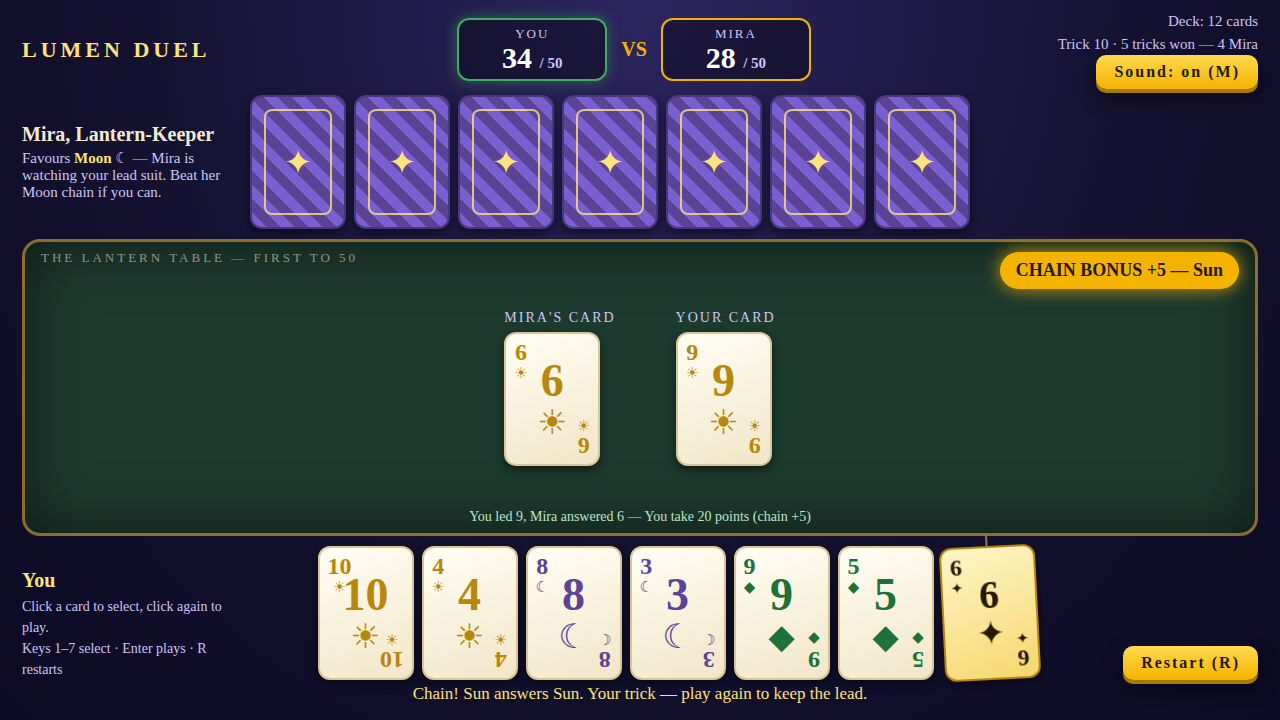
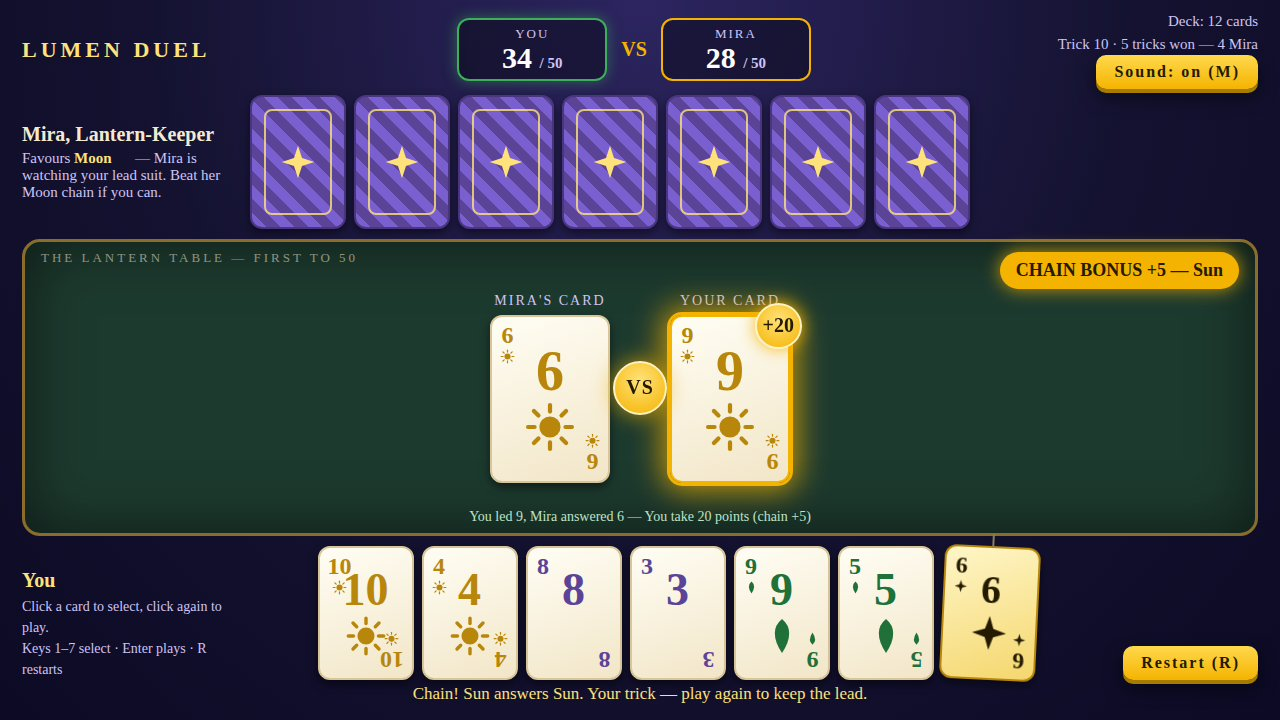
Revision: SVG suit emblems, win flourish, bigger table cards with winner glow + score badge and VS medallion

diff --git a/game/src/render.js b/game/src/render.js
@@ -9,10 +9,11 @@
     return node;
   }
 
-  function suitGlyph(suitId) {
-    if (suitId === "lantern") return "\u2726";
-    var suit = root.LumenDeck.suitById(suitId);
-    return suit ? suit.glyph : "?";
+  // One inline SVG suit icon (crisp vector shape, never a text glyph).
+  function suitIcon(suitId) {
+    var id = suitId === "lantern" ? "lantern" : suitId;
+    return '<svg class="suit-icon" viewBox="0 0 32 32" aria-hidden="true">' +
+      '<use href="#icon-' + id + '"></use></svg>';
   }
 
   function suitName(suitId) {
@@ -27,7 +28,8 @@
     var node = el("div", "card");
     if (opts.faceDown) {
       node.classList.add("back");
-      var mark = el("div", "back-mark", "\u2726");
+      var mark = el("div", "back-mark");
+      mark.innerHTML = suitIcon("lantern");
       node.appendChild(mark);
       return node;
     }
@@ -37,13 +39,19 @@
     if (opts.played) node.classList.add("played");
     var top = el("div", "corner");
     top.appendChild(el("span", "v", String(card.value)));
-    top.appendChild(el("span", "s", suitGlyph(card.suit)));
+    var topSuit = el("span", "s");
+    topSuit.innerHTML = suitIcon(card.suit);
+    top.appendChild(topSuit);
     var bottom = el("div", "corner br");
     bottom.appendChild(el("span", "v", String(card.value)));
-    bottom.appendChild(el("span", "s", suitGlyph(card.suit)));
+    var bottomSuit = el("span", "s");
+    bottomSuit.innerHTML = suitIcon(card.suit);
+    bottom.appendChild(bottomSuit);
     var center = el("div", "center");
     center.appendChild(el("div", "big", String(card.value)));
-    center.appendChild(el("div", "glyph", suitGlyph(card.suit)));
+    var centerIcon = el("div", "glyph");
+    centerIcon.innerHTML = suitIcon(card.suit);
+    center.appendChild(centerIcon);
     node.appendChild(top);
     node.appendChild(center);
     node.appendChild(bottom);
@@ -88,6 +96,8 @@
     table.querySelectorAll(".chain-banner").forEach(function (n) { n.remove(); });
     var playerSlot = document.getElementById("slot-player");
     var oppSlot = document.getElementById("slot-opp");
+    var playerCardEl = null;
+    var oppCardEl = null;
     playerSlot.innerHTML = "";
     oppSlot.innerHTML = "";
     var labelP = el("div", "slot-label", "YOUR CARD");
@@ -95,14 +105,24 @@
     playerSlot.appendChild(labelP);
     oppSlot.appendChild(labelO);
     if (state.table.playerCard) {
-      playerSlot.appendChild(cardElement(state.table.playerCard, { played: true }));
+      playerCardEl = cardElement(state.table.playerCard, { played: true });
+      playerSlot.appendChild(playerCardEl);
     } else {
       playerSlot.appendChild(el("div", "slot-empty", "waiting…"));
     }
     if (state.table.opponentCard) {
-      oppSlot.appendChild(cardElement(state.table.opponentCard, { played: true }));
+      oppCardEl = cardElement(state.table.opponentCard, { played: true });
+      oppSlot.appendChild(oppCardEl);
     } else {
       oppSlot.appendChild(el("div", "slot-empty", "waiting…"));
+    }
+    // Gold glow ring on the card that took the trick, plus a compact
+    // score badge (+points) on that card, mirroring the trick result.
+    if (playerCardEl && oppCardEl && state.lastResult) {
+      var winCardEl = state.lastResult.winnerIsPlayer ? playerCardEl : oppCardEl;
+      winCardEl.classList.add("winner");
+      var badge = el("div", "score-badge", "+" + state.lastResult.points);
+      winCardEl.appendChild(badge);
     }
     if (state.lastResult && state.lastResult.chained && state.showChain) {
       var banner = el("div", "chain-banner",
@@ -114,7 +134,7 @@
     var fav = root.LumenAi.favouredSuit(state.opponentHand);
     var favName = suitName(fav);
     document.getElementById("opp-fav").innerHTML =
-      "Favours <b>" + favName + "</b> " + suitGlyph(fav) +
+      "Favours <b>" + favName + "</b> " + suitIcon(fav) +
       " — " + root.LumenAi.telegraph(state.opponentHand, state.playerLeads === false);
     renderScoreboard(state);
     renderHand(document.getElementById("opp-hand"), state.opponentHand, { faceDown: true });
@@ -136,6 +156,9 @@
     var score = document.getElementById("end-score");
     var detail = document.getElementById("end-detail");
     var fireworks = document.getElementById("fireworks");
+    var endScreen = document.getElementById("screen-end");
+    endScreen.classList.toggle("win-mode", winner === "player");
+    endScreen.classList.toggle("loss-mode", winner !== "player");
     if (winner === "player") {
       title.textContent = "YOU WIN THE DUEL";
       title.className = "win";
@@ -164,7 +187,7 @@
     renderTable: renderTable,
     renderEnd: renderEnd,
     showScreen: showScreen,
-    suitGlyph: suitGlyph,
+    suitIcon: suitIcon,
     suitName: suitName
   };
 })(typeof window !== "undefined" ? window : globalThis);

diff --git a/game/src/style.css b/game/src/style.css
@@ -45,6 +45,16 @@ h1.title { font-size: 84px; letter-spacing: 10px; color: #ffe27a;
 .suit-key { display: flex; gap: 22px; justify-content: center; margin-bottom: 26px; font-size: 16px; }
 .suit-key span { display: flex; align-items: center; gap: 7px; }
 
+/* ---------- suit icons (inline SVG, crisp at any size) ---------- */
+.suit-icon { width: 1em; height: 1em; display: inline-block; vertical-align: -0.12em;
+  fill: currentColor; }
+.suit-key .suit-icon { width: 18px; height: 18px; }
+.opp-tag .fav .suit-icon { width: 16px; height: 16px; }
+.card .corner .s .suit-icon { width: 15px; height: 15px; }
+.card .center .glyph .suit-icon { width: 42px; height: 42px; }
+.card.back .back-mark .suit-icon { width: 40px; height: 40px; }
+.fireworks .suit-icon { width: 42px; height: 42px; }
+
 /* ---------- play table ---------- */
 #screen-play { padding: 10px 22px 12px; }
 .topbar { display: flex; align-items: center; justify-content: space-between; }
@@ -78,9 +88,25 @@ h1.title { font-size: 84px; letter-spacing: 10px; color: #ffe27a;
 @keyframes pop { 0% { transform: scale(.4); opacity: 0; } 70% { transform: scale(1.12); } 100% { transform: scale(1); opacity: 1; } }
 .table-slot { text-align: center; }
 .table-slot .slot-label { font-size: 14px; letter-spacing: 2px; color: #cfc4f5; margin-bottom: 6px; }
-.table-slot .slot-empty { width: 110px; height: 154px; border: 2px dashed rgba(244,234,210,.4);
+.table-slot .slot-empty { width: 120px; height: 168px; border: 2px dashed rgba(244,234,210,.4);
   border-radius: 12px; display: flex; align-items: center; justify-content: center;
   font-size: 14px; color: rgba(244,234,210,.5); }
+/* The two played cards are LARGE, with a VS medallion between them. */
+.table-vs { position: absolute; left: 50%; top: 50%; transform: translate(-50%, -50%);
+  width: 54px; height: 54px; border-radius: 50%; background: radial-gradient(circle at 50% 35%, #ffe27a, #f5b301);
+  color: #241a00; font-size: 20px; font-weight: bold; letter-spacing: 1px;
+  display: flex; align-items: center; justify-content: center;
+  border: 2px solid #fff2c0; box-shadow: 0 0 22px rgba(245,179,1,.75); z-index: 2; }
+.table-slot .card { width: 120px; height: 168px; }
+.table-slot .card .center .big { font-size: 56px; }
+.table-slot .card .center .glyph .suit-icon { width: 52px; height: 52px; }
+.table-slot .card.winner { border-color: #f5b301;
+  box-shadow: 0 0 0 3px #f5b301, 0 0 30px 8px rgba(245,179,1,.75); }
+.card .score-badge { position: absolute; top: -14px; right: -14px; z-index: 3;
+  min-width: 46px; height: 46px; padding: 0 6px; border-radius: 50%;
+  background: radial-gradient(circle at 50% 35%, #ffe27a, #f5b301); color: #241a00;
+  font-size: 20px; font-weight: bold; display: flex; align-items: center; justify-content: center;
+  border: 2px solid #fff2c0; box-shadow: 0 0 16px rgba(245,179,1,.9); }
 .player-row { display: flex; align-items: flex-end; justify-content: space-between; gap: 16px; }
 .player-tag { width: 210px; }
 .player-tag .name { font-size: 20px; font-weight: bold; color: #ffe27a; }
@@ -120,12 +146,24 @@ h1.title { font-size: 84px; letter-spacing: 10px; color: #ffe27a;
 
 /* ---------- end screens ---------- */
 #screen-end { align-items: center; justify-content: center; text-align: center; }
+.win-burst { display: none; position: absolute; inset: 0; pointer-events: none;
+  background: radial-gradient(circle at 50% 44%, rgba(245,179,1,.38) 0%, rgba(245,179,1,.12) 32%, transparent 58%);
+  animation: burstglow 2.4s ease-in-out infinite; }
+@keyframes burstglow { 0%,100% { opacity: .6; } 50% { opacity: 1; } }
+.win-mode .win-burst { display: block; }
+.end-lanterns { display: none; gap: 26px; margin-bottom: 16px; }
+.win-mode .end-lanterns { display: flex; }
+.loss-mode .end-lanterns { display: flex; opacity: .28; filter: grayscale(.7); }
+.loss-mode .end-lanterns .lantern { box-shadow: none; animation: none; }
+.loss-mode { background: radial-gradient(ellipse at 50% 40%, rgba(122,95,208,.25), transparent 62%); }
 #end-title { font-size: 72px; letter-spacing: 6px; }
 #end-title.win { color: #ffe27a; text-shadow: 0 0 30px rgba(245,179,1,.8), 0 4px 0 #7a5c00; }
 #end-title.loss { color: #b9a8e8; text-shadow: 0 0 26px rgba(122,95,208,.7); }
 #end-sub { font-size: 24px; color: #cfc4f5; margin: 10px 0 6px; }
 #end-score { font-size: 30px; margin-bottom: 8px; }
+.win-mode #end-score { font-size: 42px; }
 #end-score b { color: #ffe27a; }
+.loss-mode #end-score b { color: #b9a8e8; }
 #end-detail { font-size: 17px; color: #cfc4f5; max-width: 640px; line-height: 1.6; margin-bottom: 28px; }
 .fireworks { display: flex; gap: 30px; margin-bottom: 14px; font-size: 40px; }
 .fireworks span { animation: burst 1.1s ease-in-out infinite; display: inline-block; }

diff --git a/game/index.html b/game/index.html
@@ -9,6 +9,31 @@
 </head>
 <body>
 <div id="app">
+  <svg width="0" height="0" style="position:absolute" aria-hidden="true">
+    <defs>
+      <symbol id="icon-sun" viewBox="0 0 32 32">
+        <circle cx="16" cy="16" r="6.5" fill="currentColor" />
+        <g stroke="currentColor" stroke-width="2.6" stroke-linecap="round">
+          <line x1="16" y1="2.5" x2="16" y2="6.5" /><line x1="16" y1="25.5" x2="16" y2="29.5" />
+          <line x1="2.5" y1="16" x2="6.5" y2="16" /><line x1="25.5" y1="16" x2="29.5" y2="16" />
+          <line x1="6.1" y1="6.1" x2="8.9" y2="8.9" /><line x1="23.1" y1="8.9" x2="25.9" y2="6.1" />
+          <line x1="6.1" y1="25.9" x2="8.9" y2="23.1" /><line x1="23.1" y1="23.1" x2="25.9" y2="25.9" />
+        </g>
+      </symbol>
+      <symbol id="icon-moon" viewBox="0 0 32 32">
+        <path d="M22.5 3.5 A12.5 12.5 0 1 0 22.5 28.5 A10 10 0 0 1 22.5 3.5 Z" fill="currentColor" />
+      </symbol>
+      <symbol id="icon-leaf" viewBox="0 0 32 32">
+        <path d="M16 3 Q27 12 16 29 Q5 12 16 3 Z" fill="currentColor" />
+      </symbol>
+      <symbol id="icon-stone" viewBox="0 0 32 32">
+        <polygon points="16,3 27,9.5 27,22.5 16,29 5,22.5 5,9.5" fill="currentColor" />
+      </symbol>
+      <symbol id="icon-lantern" viewBox="0 0 32 32">
+        <path d="M16 3 L19.2 12.8 L29 16 L19.2 19.2 L16 29 L12.8 19.2 L3 16 L12.8 12.8 Z" fill="currentColor" />
+      </symbol>
+    </defs>
+  </svg>
 
   <div class="screen" id="screen-title">
     <div class="lantern-row">
@@ -27,11 +52,11 @@
       First to <b>50 points</b> wins the duel.
     </div>
     <div class="suit-key">
-      <span><span style="color:#f5b301">&#9788;</span> Sun</span>
-      <span><span style="color:#9b7ede">&#9789;</span> Moon</span>
-      <span><span style="color:#3fae5a">&#9670;</span> Leaf</span>
-      <span><span style="color:#9aa3ad">&#11022;</span> Stone</span>
-      <span><span style="color:#f5b301">&#10022;</span> Lantern — wild</span>
+      <span style="color:#f5b301"><svg class="suit-icon"><use href="#icon-sun" /></svg> Sun</span>
+      <span style="color:#9b7ede"><svg class="suit-icon"><use href="#icon-moon" /></svg> Moon</span>
+      <span style="color:#3fae5a"><svg class="suit-icon"><use href="#icon-leaf" /></svg> Leaf</span>
+      <span style="color:#9aa3ad"><svg class="suit-icon"><use href="#icon-stone" /></svg> Stone</span>
+      <span style="color:#f5b301"><svg class="suit-icon"><use href="#icon-lantern" /></svg> Lantern — wild</span>
     </div>
     <button class="btn" id="play-button">LIGHT THE LANTERNS — PLAY</button>
     <p class="hint" style="margin-top:18px">Click a card to select it, click again to play. Keys 1–7 select, Enter plays, R restarts, M mutes.</p>
@@ -62,6 +87,7 @@
 
     <div class="table" id="table-area">
       <div class="felt-label">THE LANTERN TABLE — FIRST TO 50</div>
+      <div class="table-vs">VS</div>
       <div class="table-slot" id="slot-opp"></div>
       <div class="table-slot" id="slot-player"></div>
       <div class="trick-log" id="trick-log"></div>
@@ -81,7 +107,14 @@
   </div>
 
   <div class="screen" id="screen-end">
-    <div class="fireworks" id="fireworks"><span>&#10022;</span><span>&#9788;</span><span>&#10022;</span><span>&#9789;</span></div>
+    <div class="win-burst"></div>
+    <div class="end-lanterns">
+      <div class="lantern sun"></div>
+      <div class="lantern moon"></div>
+      <div class="lantern leaf"></div>
+      <div class="lantern stone"></div>
+    </div>
+    <div class="fireworks" id="fireworks"><span style="color:#f5b301"><svg class="suit-icon"><use href="#icon-lantern" /></svg></span><span style="color:#f5b301"><svg class="suit-icon"><use href="#icon-sun" /></svg></span><span style="color:#f5b301"><svg class="suit-icon"><use href="#icon-lantern" /></svg></span><span style="color:#9b7ede"><svg class="suit-icon"><use href="#icon-moon" /></svg></span></div>
     <h1 id="end-title" class="win">YOU WIN THE DUEL</h1>
     <p id="end-sub"></p>
     <p id="end-score"></p>

diff --git a/game/src/deck.js b/game/src/deck.js
@@ -3,10 +3,10 @@
   "use strict";
 
   var SUITS = [
-    { id: "sun",   name: "Sun",   color: "#b8860b", glyph: "\u2600" },
-    { id: "moon",  name: "Moon",  color: "#5b4398", glyph: "\u263E" },
-    { id: "leaf",  name: "Leaf",  color: "#20703a", glyph: "\u25C6" },
-    { id: "stone", name: "Stone", color: "#5a6470", glyph: "\u2B22" }
+    { id: "sun",   name: "Sun",   color: "#b8860b" },
+    { id: "moon",  name: "Moon",  color: "#5b4398" },
+    { id: "leaf",  name: "Leaf",  color: "#20703a" },
+    { id: "stone", name: "Stone", color: "#5a6470" }
   ];
 
   function suitById(id) {
